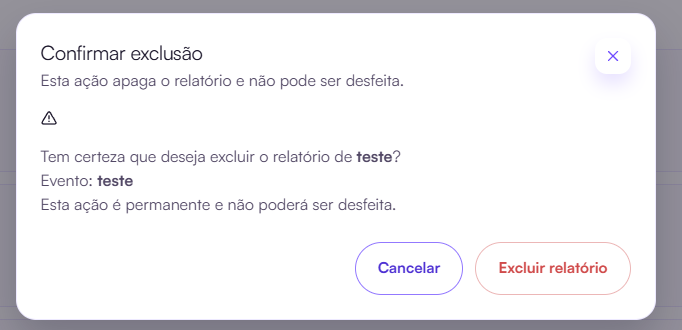
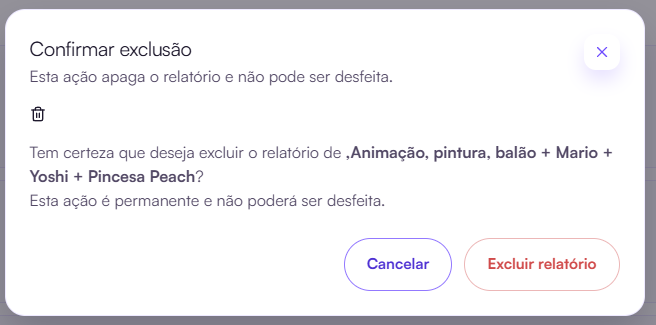
update img

diff --git a/frontend/app/relatorios/page.tsx b/frontend/app/relatorios/page.tsx
@@ -4,7 +4,7 @@ import './page.css';
 import { useEffect, useId, useState } from "react";
 import Link from "next/link";
 import { useRouter } from "next/navigation";
-import { FiDownload, FiFileText, FiMaximize2, FiTrash2, FiX } from "react-icons/fi";
+import { FiDownload, FiFileText, FiMaximize2, FiX } from "react-icons/fi";
 import {
   API_ORIGIN,
   deleteReport,
@@ -848,14 +848,8 @@ export default function RelatoriosPage() {
             </header>
 
             <div className="modal-body confirm-body">
-              <div className="confirm-icon" aria-hidden="true">
-                <FiTrash2 />
-              </div>
               <div className="confirm-text">
-                <p>
-                  Tem certeza que deseja excluir o relatório de{" "}
-                  <strong>{deleteTarget.title_schedule ?? deleteTarget.contractor_name}</strong>?
-                </p>
+                <p>Tem certeza que deseja excluir este relatório?</p>
                 <p className="confirm-muted">Esta ação é permanente e não poderá ser desfeita.</p>
               </div>
             </div>